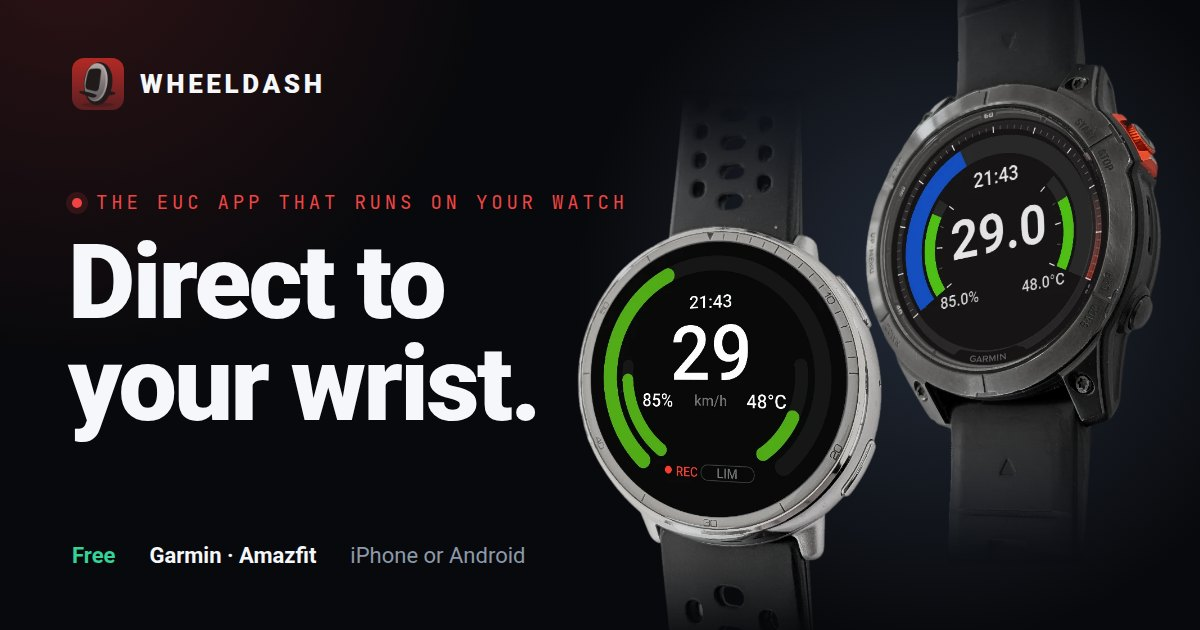
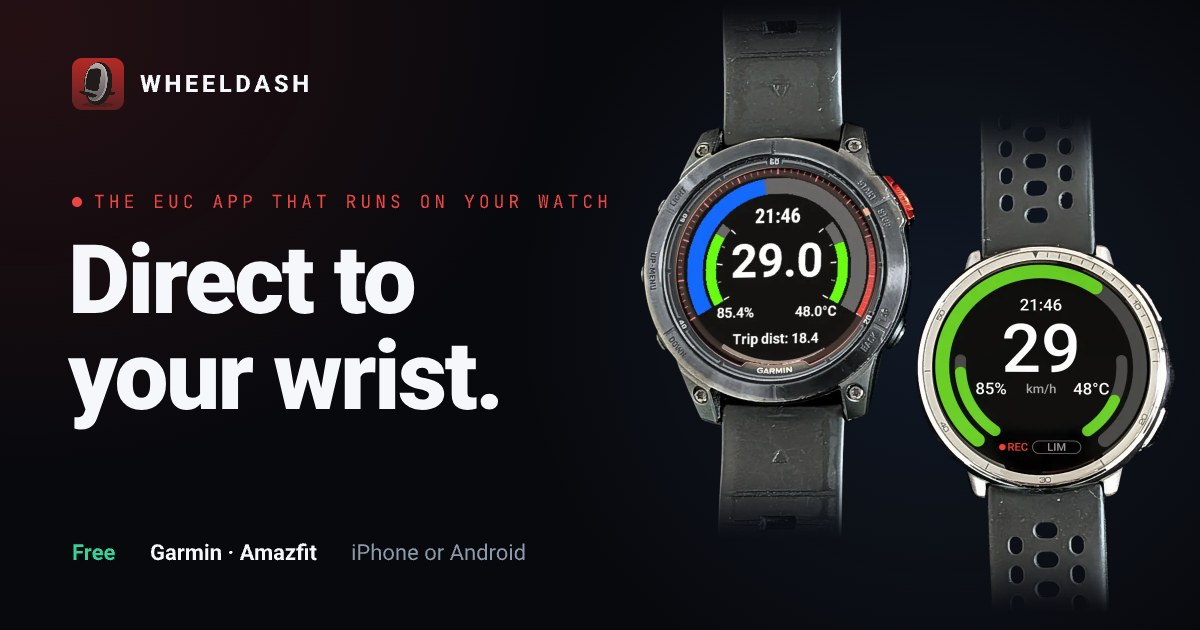
Hero and social card use a real photo of both watches
- New hero image from one photo of the Garmin fēnix 7 Pro and the
  Amazfit Active 2 together, so both share the same light and angle.
  The bezel colors are corrected (the fēnix is gunmetal) and the
  straps are a medium length that fades out on both ends.
- The Garmin is now on the left: the model labels and alt text follow.
- The social preview card uses the same image.

Claude-Session: https://claude.ai/code/session_0113Rbw9K8vn8adzvCaMpYEK

diff --git a/_pages/home.md b/_pages/home.md
@@ -27,9 +27,9 @@ seo_title: "WheelDash – EUC app for Garmin and Amazfit smartwatches"
     </ul>
   </div>
   <div class="wd-hero__visual wd-hero__watch">
-    <img src="/assets/images/wheeldash-hero-watches.webp" width="1078" height="1280" fetchpriority="high" alt="The WheelDash EUC app on an Amazfit Active 2 and a Garmin fēnix 7 Pro: speed, battery and temperature">
-    <p class="wd-hero__model" style="--x:24.6%">Amazfit Active 2</p>
-    <p class="wd-hero__model" style="--x:71.4%">Garmin fēnix 7 Pro</p>
+    <img src="/assets/images/wheeldash-hero-watches.webp" width="1078" height="1280" fetchpriority="high" alt="The WheelDash EUC app on a Garmin fēnix 7 Pro and an Amazfit Active 2: speed, battery and temperature">
+    <p class="wd-hero__model" style="--x:26.1%">Garmin fēnix 7 Pro</p>
+    <p class="wd-hero__model" style="--x:75.1%">Amazfit Active 2</p>
   </div>
 </section>
 
